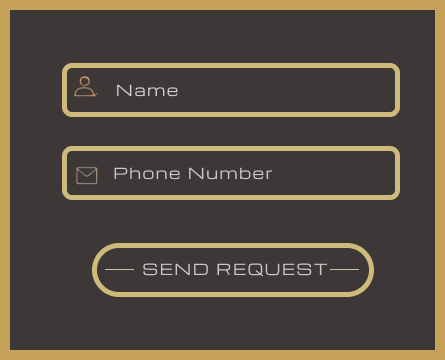
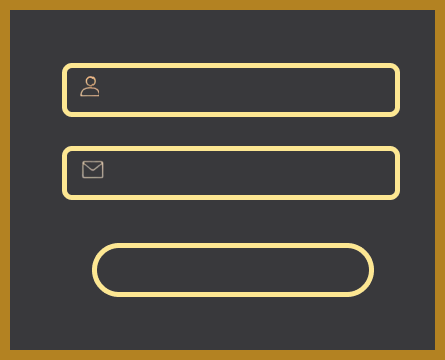
Fix hover text glitch with GPU isolation, make feedback box font bold and crisp, and increase mobile section distancing

diff --git a/src/App.css b/src/App.css
@@ -33,14 +33,18 @@
 /* Stage element positioning */
 .stage-elem {
   position: absolute;
+  transform: translateZ(0);
+  backface-visibility: hidden;
+  -webkit-backface-visibility: hidden;
 }
 
 .stage-elem img {
   display: block;
   object-fit: contain;
   pointer-events: none;
+  backface-visibility: hidden;
+  -webkit-backface-visibility: hidden;
   image-rendering: -webkit-optimize-contrast;
-  image-rendering: crisp-edges;
 }
 
 /* 1. FEEDBACK Header */
@@ -129,17 +133,29 @@
   width: 275px;
   height: 44px;
   background: transparent;
-  color: transparent;
+  color: #dfba6d;
   border: none;
   outline: none;
-  font-family: 'Rajdhani', sans-serif;
-  font-size: 20px;
-  font-weight: 600;
-  letter-spacing: 0.05em;
+  font-family: 'Rajdhani', 'Orbitron', sans-serif;
+  font-size: 21px;
+  font-weight: 700;
+  letter-spacing: 0.08em;
   caret-color: #dfba6d;
-  padding: 0 8px;
-  transition: background 0.15s ease, color 0.15s ease;
+  padding: 0 4px;
   z-index: 20;
+}
+
+.feedback-input::placeholder {
+  color: rgba(223, 186, 109, 0.72);
+  font-family: 'Rajdhani', 'Orbitron', sans-serif;
+  font-size: 21px;
+  font-weight: 700;
+  letter-spacing: 0.08em;
+  transition: opacity 0.2s ease;
+}
+
+.feedback-input:focus::placeholder {
+  opacity: 0.35;
 }
 
 .name-input-field {
@@ -147,15 +163,7 @@
 }
 
 .phone-input-field {
-  top: 152px;
-}
-
-.feedback-input:focus,
-.feedback-input.has-value {
-  background: rgba(22, 14, 14, 0.95);
-  color: #dfba6d;
-  border-radius: 4px;
-  box-shadow: 0 0 8px rgba(0, 0, 0, 0.7);
+  top: 151px;
 }
 
 /* Button overlaying the base image */
@@ -169,12 +177,23 @@
   border: none;
   cursor: pointer;
   border-radius: 27px;
-  transition: box-shadow 0.2s ease, transform 0.15s ease;
+  display: flex;
+  align-items: center;
+  justify-content: center;
+  color: #dfba6d;
+  font-family: 'Rajdhani', 'Orbitron', sans-serif;
+  font-size: 16px;
+  font-weight: 700;
+  letter-spacing: 0.16em;
+  text-shadow: 0 0 8px rgba(223, 186, 109, 0.5);
+  transition: box-shadow 0.2s ease, transform 0.15s ease, filter 0.2s ease;
   z-index: 20;
+  user-select: none;
 }
 
 .feedback-submit-btn:hover {
   box-shadow: 0 0 16px rgba(223, 186, 109, 0.75);
+  filter: brightness(1.2);
 }
 
 .feedback-submit-btn:active {
@@ -234,7 +253,11 @@
 .nav-link {
   display: block;
   cursor: pointer;
-  transition: transform 0.2s ease, filter 0.2s ease;
+  transition: transform 0.2s cubic-bezier(0.2, 0, 0.2, 1), filter 0.2s cubic-bezier(0.2, 0, 0.2, 1);
+  will-change: transform, filter;
+  backface-visibility: hidden;
+  -webkit-backface-visibility: hidden;
+  transform: translateZ(0);
 }
 
 .home-link img {
@@ -292,12 +315,14 @@
   height: 42px;
   cursor: pointer;
   z-index: 10;
-  transition: background 0.2s ease;
+  transition: border-bottom 0.2s ease, box-shadow 0.2s ease;
+  border-bottom: 2px solid transparent;
+  border-radius: 4px;
 }
 
 .phone-click-area:hover {
-  background: rgba(223, 186, 109, 0.15);
-  border-radius: 4px;
+  border-bottom: 2px solid rgba(223, 186, 109, 0.85);
+  box-shadow: 0 4px 12px rgba(223, 186, 109, 0.25);
 }
 
 /* 6. SOCIAL MEDIA Column */
@@ -454,7 +479,7 @@
     display: flex !important;
     flex-direction: column !important;
     align-items: center !important;
-    gap: 16px !important;
+    gap: 0 !important;
     background: transparent !important;
   }
 
@@ -474,6 +499,7 @@
     height: auto !important;
     display: flex !important;
     justify-content: center !important;
+    margin-bottom: 8px !important;
   }
 
   .feedback-header img {
@@ -486,13 +512,14 @@
   .tribute-block {
     width: 100% !important;
     max-width: 300px !important;
-    margin-top: -6px !important;
+    margin-top: 0 !important;
+    margin-bottom: 18px !important;
   }
 
   .tribute-text-heading {
     font-size: 10px !important;
     letter-spacing: 0.22em !important;
-    margin-bottom: 4px !important;
+    margin-bottom: 5px !important;
   }
 
   .tribute-gold-line {
@@ -505,7 +532,7 @@
     width: 100% !important;
     max-width: 300px !important;
     height: 243px !important;
-    margin: 2px 0 8px !important;
+    margin: 0 0 38px !important;
     box-shadow: 0 10px 35px rgba(0, 0, 0, 0.85) !important;
   }
 
@@ -519,7 +546,18 @@
     left: 25.6% !important;
     width: 61.8% !important;
     height: 12.2% !important;
-    font-size: 13px !important;
+    font-size: 15px !important;
+    font-weight: 700 !important;
+    color: #dfba6d !important;
+    font-family: 'Rajdhani', 'Orbitron', sans-serif !important;
+    padding: 0 4px !important;
+  }
+
+  .feedback-input::placeholder {
+    font-size: 15px !important;
+    font-weight: 700 !important;
+    color: rgba(223, 186, 109, 0.72) !important;
+    font-family: 'Rajdhani', 'Orbitron', sans-serif !important;
   }
 
   .name-input-field {
@@ -535,6 +573,15 @@
     top: 67.5% !important;
     width: 63.4% !important;
     height: 15% !important;
+    font-size: 12.5px !important;
+    font-weight: 700 !important;
+    letter-spacing: 0.12em !important;
+    display: flex !important;
+    align-items: center !important;
+    justify-content: center !important;
+    color: #dfba6d !important;
+    font-family: 'Rajdhani', 'Orbitron', sans-serif !important;
+    text-shadow: 0 0 6px rgba(223, 186, 109, 0.5) !important;
   }
 
   /* 4. INFO & Nav Links */
@@ -543,7 +590,8 @@
     height: auto !important;
     display: flex !important;
     justify-content: center !important;
-    margin-top: 6px !important;
+    margin-top: 0 !important;
+    margin-bottom: 14px !important;
   }
 
   .info-title img {
@@ -556,8 +604,9 @@
     flex-direction: row !important;
     flex-wrap: wrap !important;
     justify-content: center !important;
-    gap: 10px 18px !important;
-    margin-top: -6px !important;
+    gap: 12px 24px !important;
+    margin-top: 0 !important;
+    margin-bottom: 42px !important;
   }
 
   .home-link img,
@@ -577,7 +626,8 @@
     height: auto !important;
     display: flex !important;
     justify-content: center !important;
-    margin-top: 10px !important;
+    margin-top: 0 !important;
+    margin-bottom: 14px !important;
   }
 
   .contact-us-title img {
@@ -591,7 +641,8 @@
     height: auto !important;
     display: flex !important;
     justify-content: center !important;
-    margin-top: -4px !important;
+    margin-top: 0 !important;
+    margin-bottom: 42px !important;
   }
 
   .contact-person-block img {
@@ -611,7 +662,8 @@
     height: auto !important;
     display: flex !important;
     justify-content: center !important;
-    margin-top: 10px !important;
+    margin-top: 0 !important;
+    margin-bottom: 18px !important;
   }
 
   .social-media-title img {
@@ -621,11 +673,12 @@
 
   .social-icons-container {
     width: 100% !important;
-    max-width: 190px !important;
+    max-width: 210px !important;
     height: auto !important;
     justify-content: center !important;
-    gap: 20px !important;
-    margin-top: -2px !important;
+    gap: 24px !important;
+    margin-top: 0 !important;
+    margin-bottom: 42px !important;
   }
 
   .social-btn img {
@@ -639,7 +692,8 @@
     height: auto !important;
     display: flex !important;
     justify-content: center !important;
-    margin-top: 10px !important;
+    margin-top: 0 !important;
+    margin-bottom: 14px !important;
   }
 
   .address-title img {
@@ -653,7 +707,8 @@
     height: auto !important;
     display: flex !important;
     justify-content: center !important;
-    margin-top: -4px !important;
+    margin-top: 0 !important;
+    margin-bottom: 24px !important;
   }
 
   .address-click-link {
@@ -669,7 +724,8 @@
   .map-container {
     width: 190px !important;
     height: 190px !important;
-    margin-top: 4px !important;
+    margin-top: 0 !important;
+    margin-bottom: 20px !important;
   }
 
   .map-frame-layer {

diff --git a/src/App.jsx b/src/App.jsx
@@ -92,9 +92,10 @@ function App() {
             <input
               type="text"
               name="name"
+              placeholder="Name"
               value={name}
               onChange={(e) => setName(e.target.value)}
-              className={`feedback-input name-input-field ${name ? 'has-value' : ''}`}
+              className="feedback-input name-input-field"
               autoComplete="off"
               spellCheck="false"
               required
@@ -104,9 +105,10 @@ function App() {
             <input
               type="tel"
               name="phone"
+              placeholder="Phone Number"
               value={phone}
               onChange={(e) => setPhone(e.target.value)}
-              className={`feedback-input phone-input-field ${phone ? 'has-value' : ''}`}
+              className="feedback-input phone-input-field"
               autoComplete="off"
               spellCheck="false"
               required
@@ -117,7 +119,9 @@ function App() {
               type="submit"
               className="feedback-submit-btn"
               title="Send Request"
-            />
+            >
+              <span>— SEND REQUEST —</span>
+            </button>
           </form>
 
           {/* Submission Toast */}

diff --git a/src/index.css b/src/index.css
@@ -1,4 +1,4 @@
-@import url('https://fonts.googleapis.com/css2?family=Cinzel:wght@400;600;700&family=Rajdhani:wght@500;600;700&display=swap');
+@import url('https://fonts.googleapis.com/css2?family=Cinzel:wght@400;600;700&family=Orbitron:wght@500;600;700;800;900&family=Rajdhani:wght@500;600;700&display=swap');
 
 * {
   box-sizing: border-box;
